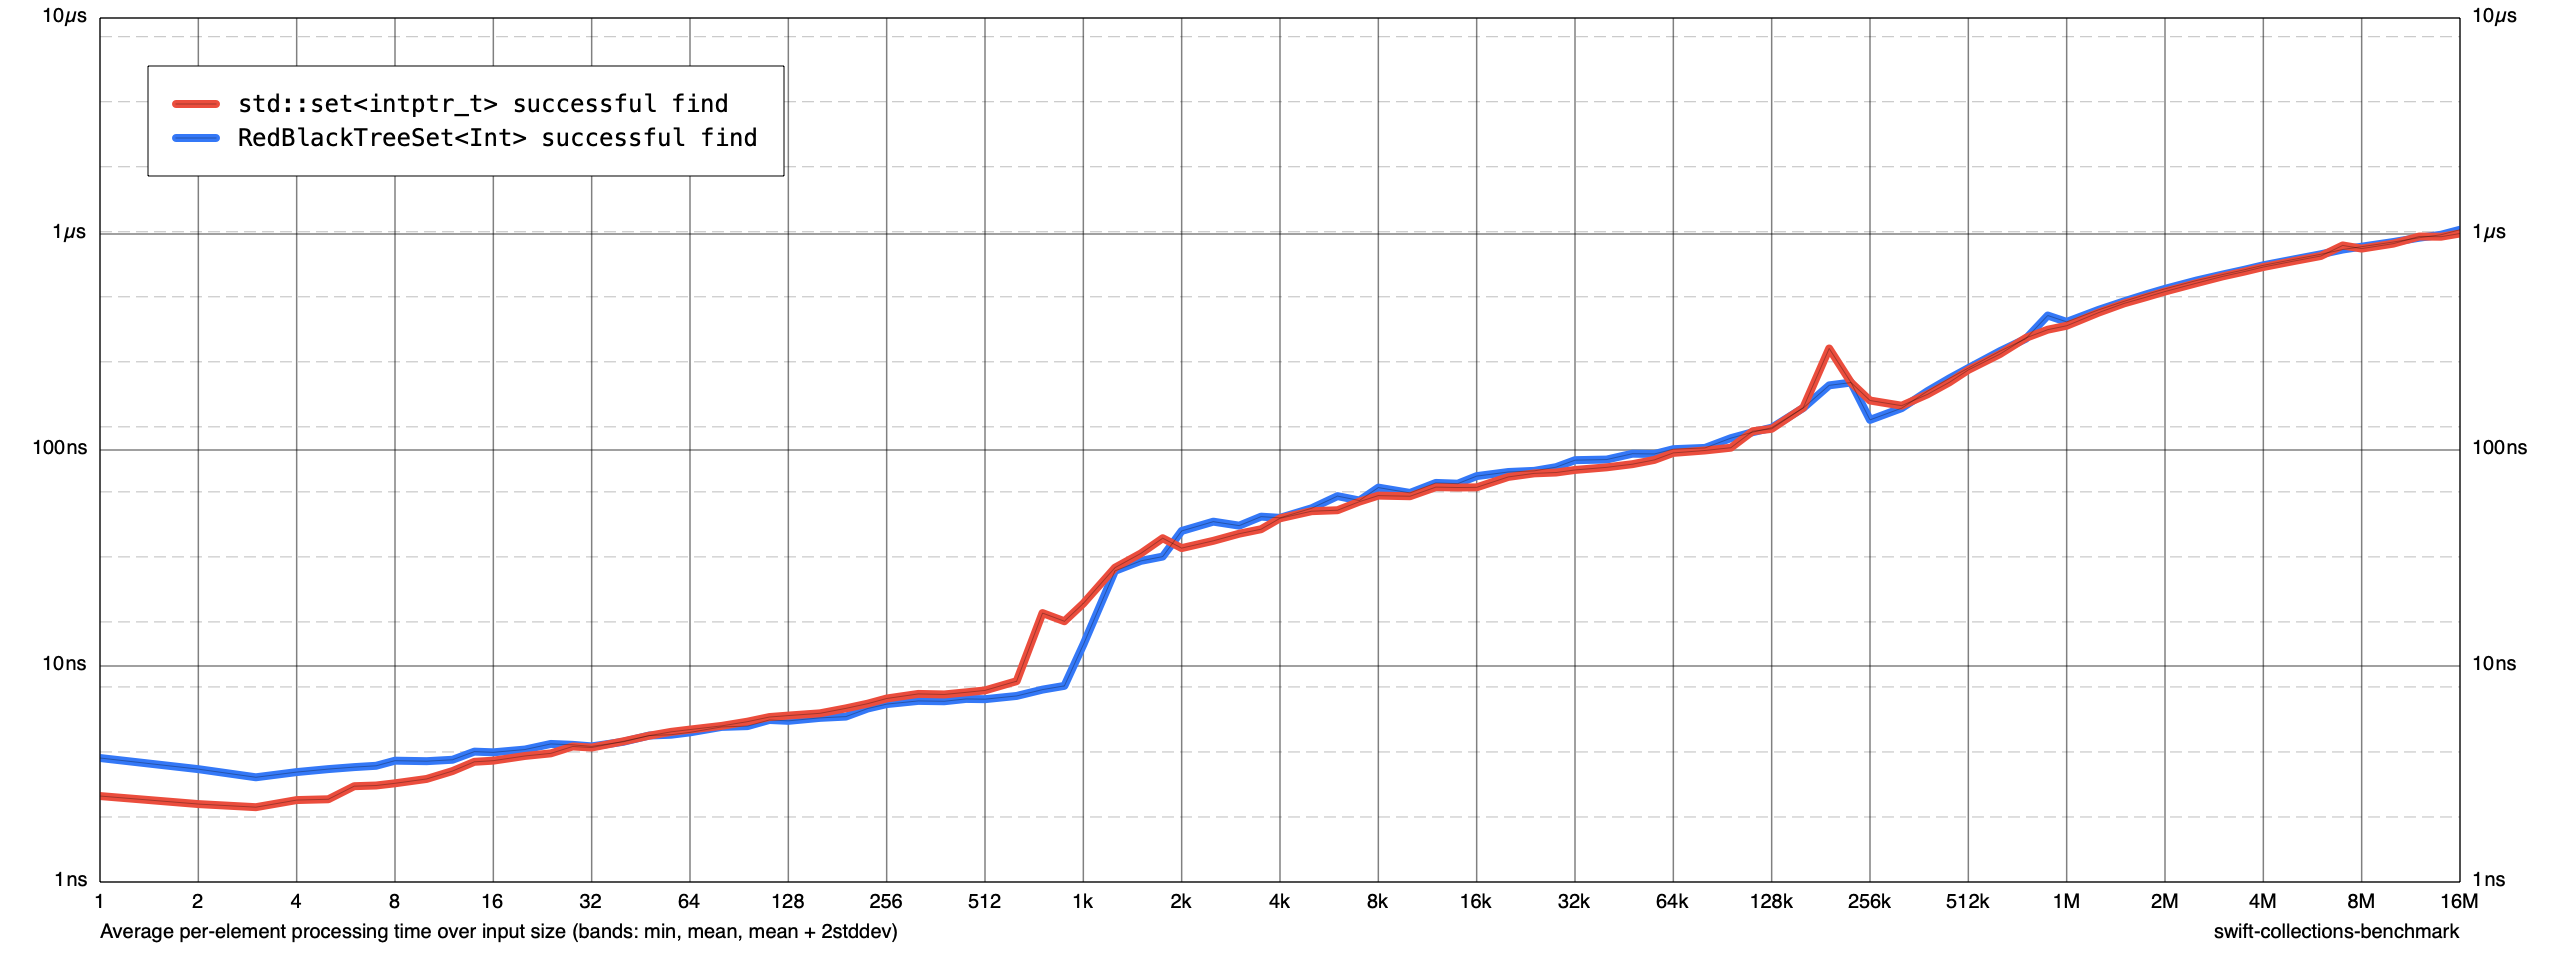
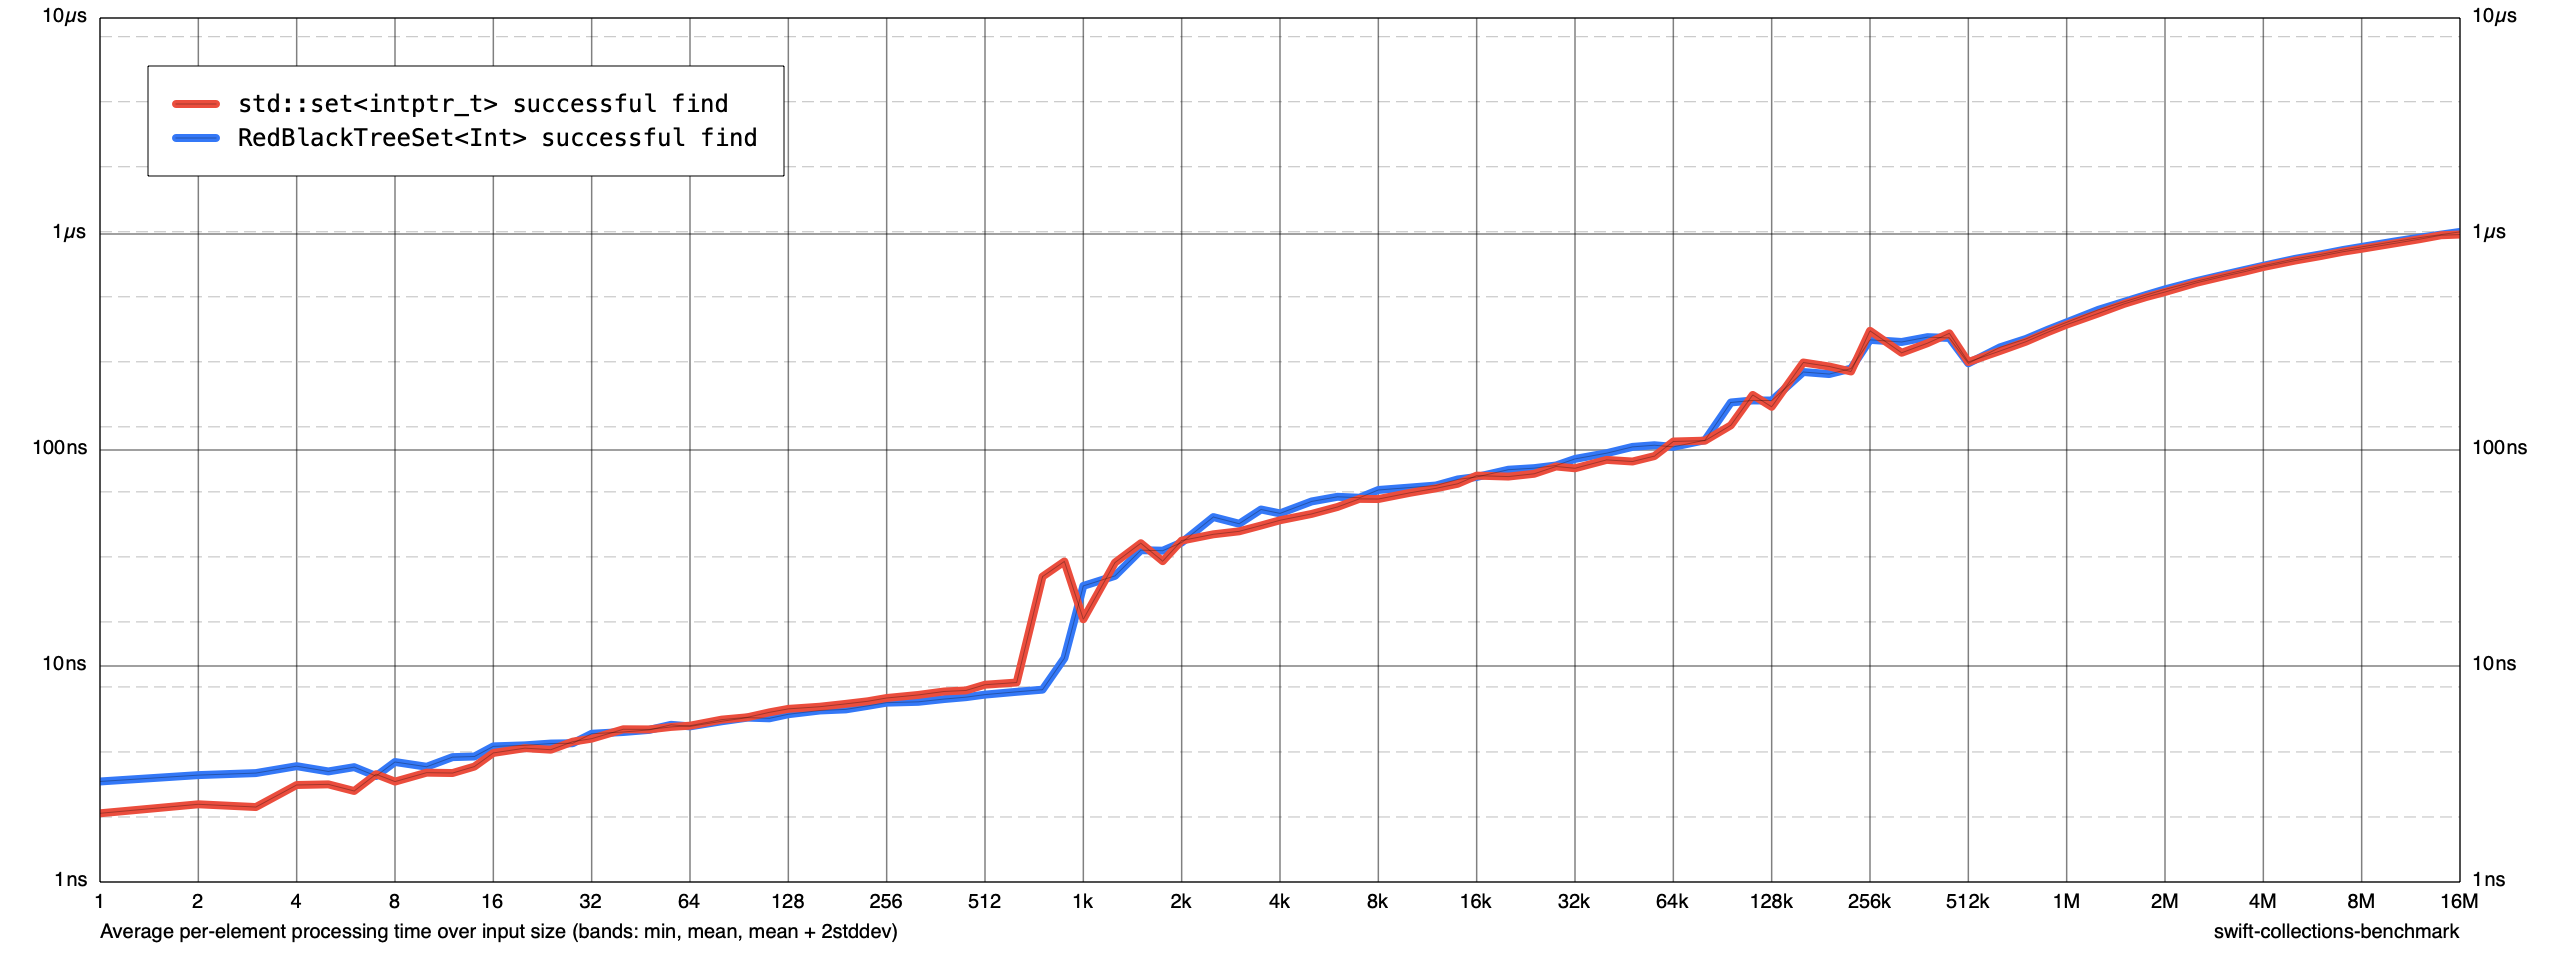
Update README with latest 16M benchmark charts

diff --git a/README.md b/README.md
@@ -18,11 +18,11 @@ swift-ac-collections is a Swift library that provides a variety of data structur
 
 *Successful lookups: time per element (1 to 16M elements). Apple Silicon, macOS, Swift 6.4 Release. `std::set` was measured in the same environment.*
 
-![Lookup performance of std::set and RedBlackTreeSet (successful lookups, up to 16M)](Benchmarks/versus%20STL%2016M%20TSan-safe/01%20successful%20lookups.png)
+![Lookup performance of std::set and RedBlackTreeSet (successful lookups, up to 16M)](Benchmarks/versus%20STL%2016M/01%20successful%20lookups.png)
 
 *Removing elements in random order: time per element (1 to 16M elements). Same measurement conditions as above.*
 
-![Removal performance of std::set and RedBlackTreeSet (random removals, up to 16M)](Benchmarks/versus%20STL%2016M%20TSan-safe/01%20random%20removals.png)
+![Removal performance of std::set and RedBlackTreeSet (random removals, up to 16M)](Benchmarks/versus%20STL%2016M/01%20random%20removals.png)
 
 With these sorted sets and dictionaries, you can solve [AtCoder][atcoder] problems that assume
 `std::set` / `std::multiset` with performance on par with C++.
